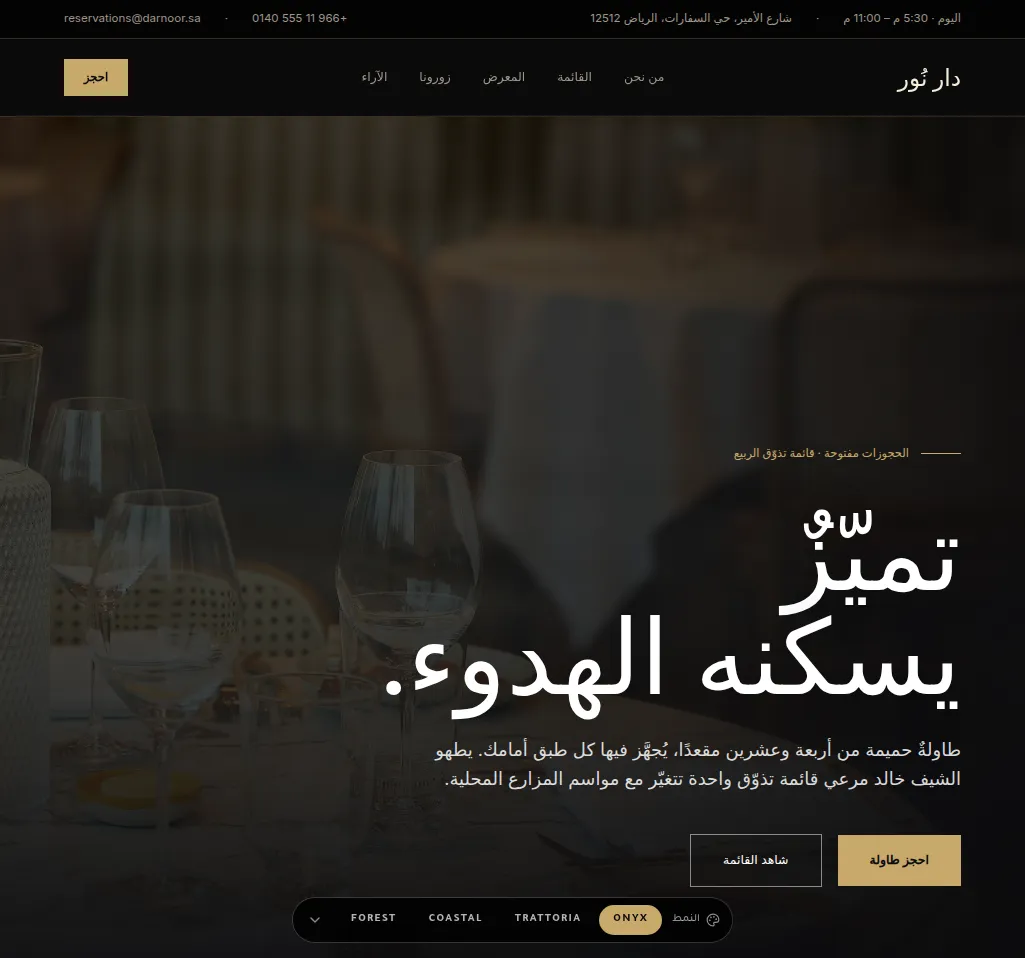
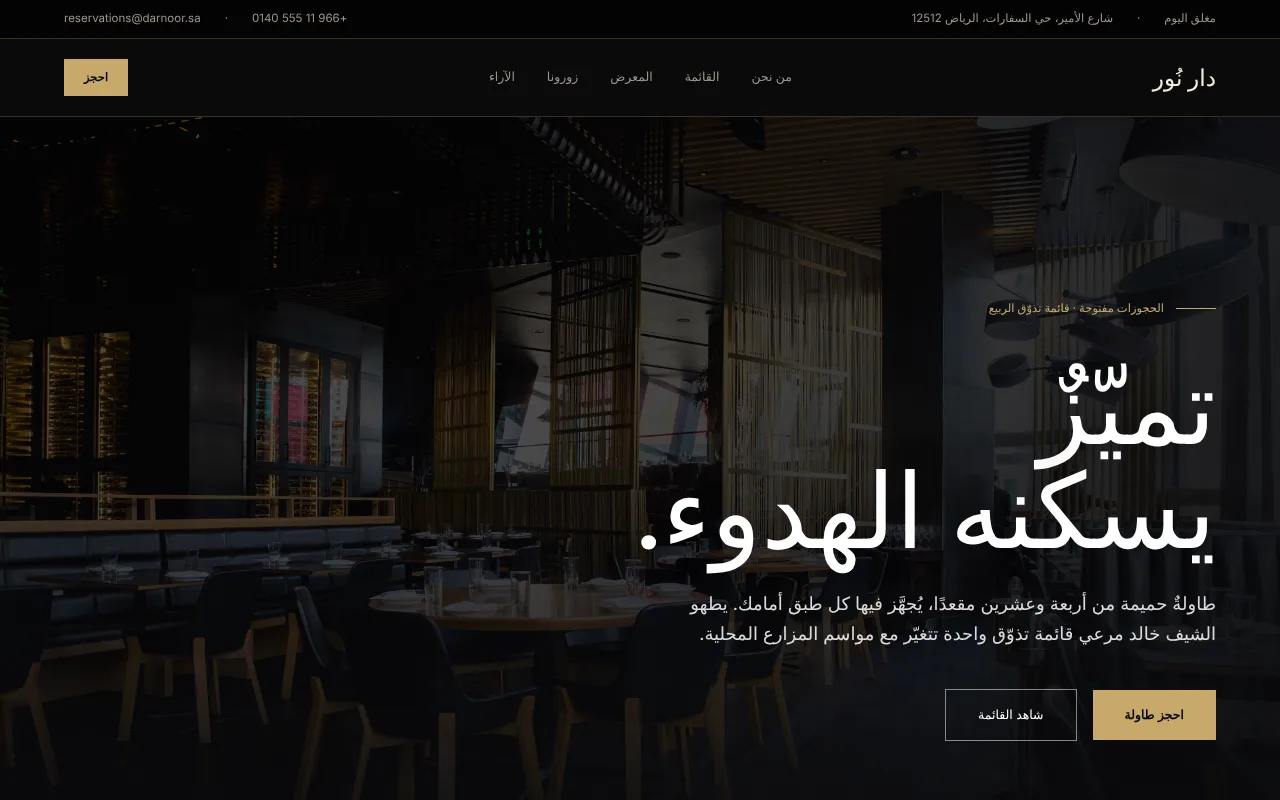
Templates: blurred "coming soon" store tile, new restaurant cover, template pictures on site cards
- /templates: the one-product store tile shows its old cover blurred under
  قريبًا, with no Shopify badge, counts, link or preview. Same on the phone.
- Restaurant demo hero is now the restaurant hall photo, and the cover
  screenshots (full, webp, thumb) are retaken from it. Real restaurant sites
  keep their own fallback photo.
- Dashboard sites: each card shows its template's picture instead of the
  site's first letter, with a solid status pill over it. The demo dashboard
  does the same.

Claude-Session: https://claude.ai/code/session_019PyfzSgTagKTkjJzAryHpH

diff --git a/components/zenya/templates/TemplatesView.tsx b/components/zenya/templates/TemplatesView.tsx
@@ -141,7 +141,7 @@ const plex = IBM_Plex_Sans_Arabic({ subsets: ["arabic"], weight: ["400", "500"],
  * as an Unsplash cover standing in for a template.
  */
 const TEMPLATES = [
-  { id: "one_product", label: "متجر",   name: "متجر بمنتج واحد",           tagline: "متجر شوبيفاي · منتج واحد", sections: 24, presets: 3, page: "/templates/one-product-store", demo: "/templates/one-product-store/demo",            build: "/build",                  shopify: true, soon: true },
+  { id: "one_product", label: "متجر",   name: "متجر بمنتج واحد",           tagline: "متجر · منتج واحد",          sections: 24, presets: 3, page: "/templates/one-product-store", demo: "/templates/one-product-store/demo",            build: "/build",                  soon: true },
   { id: "restaurant",  label: "مطعم",   name: "موقع مطعم",                 tagline: "مطعم · قائمة · حجوزات",    sections: 13, presets: 4, page: "/templates/restaurant", demo: "/templates/restaurant/demo", build: "/theme/new/restaurant" },
   { id: "atlas",       label: "تطبيق",  name: "صفحة هبوط لتطبيق",          tagline: "تطبيق · برمجيات · B2B",    sections: 12, presets: 4, page: "/templates/app-landing-page", demo: "/templates/app-landing-page/demo",      build: "/theme/new/atlas" },
   { id: "lookbook",    label: "أزياء",  name: "موقع أزياء ولوك بوك",       tagline: "أزياء · ملابس · علامة",    sections: 11, presets: 4, page: "/templates/fashion-lookbook", demo: "/templates/fashion-lookbook/demo",   build: "/theme/new/lookbook" },
@@ -342,32 +342,32 @@ export default function TemplatesView() {
               they wanted to look. */}
           <div className="zt-shot zt-hero-shot">
             {/* eslint-disable-next-line @next/next/no-img-element */}
-            <img src={themePreview(t.id)} alt={"معاينة قالب " + t.name} decoding="async" />
+            <img src={themePreview(t.id)} alt={soon ? "" : "معاينة قالب " + t.name} decoding="async" className={soon ? "zt-blur" : undefined} />
             <span className="zt-edge" aria-hidden />
-            {"shopify" in t && t.shopify ? <span className="zt-flag">شوبيفاي</span> : null}
+            {soon ? <span className="zt-veil"><span>قريبًا</span></span> : null}
           </div>
 
           <div className="zt-hero-body">
             <p className="zt-tag">{t.tagline}</p>
             <h2 className="zt-hero-name">{t.name}</h2>
-            <p className="zt-meta zt-hero-meta">
-              <span>{t.sections} قسمًا</span>
-              <span className="zt-dot" aria-hidden>·</span>
-              <span>{t.presets} أنماط جاهزة</span>
-            </p>
+            {/* The one being rebuilt says قريبًا on its cover and nothing
+                else: no counts and no preview of the old builder. */}
+            {soon ? null : (
+              <>
+                <p className="zt-meta zt-hero-meta">
+                  <span>{t.sections} قسمًا</span>
+                  <span className="zt-dot" aria-hidden>·</span>
+                  <span>{t.presets} أنماط جاهزة</span>
+                </p>
 
-            <div className="zt-hero-acts">
-              <Link href={t.demo} className="zt-hero-demo">معاينة</Link>
-              {soon ? (
-                <span className="zt-soon zt-hero-soon" title="نعمل على نسخة جديدة كليًا — قريبًا">
-                  قريبًا
-                </span>
-              ) : (
-                <SlideButton href={t.build} variant="violet" slide="هيا بنا" className="zt-hero-build">
-                  ابنِ بهذا القالب
-                </SlideButton>
-              )}
-            </div>
+                <div className="zt-hero-acts">
+                  <Link href={t.demo} className="zt-hero-demo">معاينة</Link>
+                  <SlideButton href={t.build} variant="violet" slide="هيا بنا" className="zt-hero-build">
+                    ابنِ بهذا القالب
+                  </SlideButton>
+                </div>
+              </>
+            )}
           </div>
         </article>
 
@@ -390,7 +390,7 @@ export default function TemplatesView() {
                 {/* Decorative: the label beside it already names the template,
                     so an alt here would have a screen reader say it twice. */}
                 {/* eslint-disable-next-line @next/next/no-img-element */}
-                <img src={themePreview(k.id)} alt="" loading="lazy" decoding="async" />
+                <img src={themePreview(k.id)} alt="" loading="lazy" decoding="async" className={"soon" in k && k.soon ? "zt-blur" : undefined} />
                 <span className="zt-edge" aria-hidden />
               </span>
               <span className="zt-key-label">{k.label}</span>
@@ -416,7 +416,9 @@ export default function TemplatesView() {
    * build had two links per tile to the same URL, which is sixteen tab stops
    * for eight destinations.
    */
-  const tile = (t: (typeof TEMPLATES)[number], i: number) => (
+  const tile = (t: (typeof TEMPLATES)[number], i: number) => {
+    const soon = "soon" in t && t.soon
+    return (
     <article
       key={t.id}
       className="zt-tile"
@@ -434,17 +436,15 @@ export default function TemplatesView() {
             next/image would have to be pointed at the redirect target, which is
             the thing the resolver exists to keep out of the components. */}
         {/* eslint-disable-next-line @next/next/no-img-element */}
-        <img src={themePreview(t.id)} alt={"معاينة قالب " + t.name} loading="lazy" decoding="async" />
+        <img src={themePreview(t.id)} alt={soon ? "" : "معاينة قالب " + t.name} loading="lazy" decoding="async" className={soon ? "zt-blur" : undefined} />
         {/* The screenshots are not all dark at the top: atlas, studio and
             lookbook open on near-white, and against a white card they lose
             their own top edge. A hairline drawn OVER the image gives every
             cover the same definite boundary. It has to be a pseudo-element:
             an inset shadow on the box sits under the img that fills it. */}
         <span className="zt-edge" aria-hidden />
-        {/* The "in" guard, not a bare t.shopify: `as const` makes TEMPLATES a
-            union in which only the one Shopify entry carries the key at all.
-            Same idiom the sibling uses for its optional badge. */}
-        {"shopify" in t && t.shopify ? <span className="zt-flag">شوبيفاي</span> : null}
+        {/* The one being rebuilt: its old cover blurred under one word. */}
+        {soon ? <span className="zt-veil"><span>قريبًا</span></span> : null}
       </div>
 
       <div className="zt-body">
@@ -453,12 +453,18 @@ export default function TemplatesView() {
             leading it. It sits NEXT TO the name and not at the far end of the
             row: pushed to the edge by space-between it was 200px of empty
             plate away from the word it belongs to and read as a stray glyph. */}
-        <h3 className="zt-name">
-          <Link href={t.page} className="zt-name-link">{t.name}</Link>
-          <ArrowLeft className="zt-arrow" size={16} strokeWidth={1.75} aria-hidden />
-        </h3>
+        {soon ? (
+          /* Not a link: the page behind it describes the old builder. */
+          <h3 className="zt-name">{t.name}</h3>
+        ) : (
+          <h3 className="zt-name">
+            <Link href={t.page} className="zt-name-link">{t.name}</Link>
+            <ArrowLeft className="zt-arrow" size={16} strokeWidth={1.75} aria-hidden />
+          </h3>
+        )}
         {/* Real counts on the start, the build control on the end. One row, so
             the action costs the plate a line of height rather than a band. */}
+        {soon ? null : (
         <div className="zt-foot">
           <p className="zt-meta">
             <span>{t.sections} قسمًا</span>
@@ -472,28 +478,22 @@ export default function TemplatesView() {
               button sits UNDER that overlay and every press opens the preview
               instead. .zt-act carries position/z-index for exactly that. */}
           <span className="zt-act">
-            {"soon" in t && t.soon ? (
-              /* What the live catalogue shows the public for this one. Not a
-                 button: there is nothing behind it to press. */
-              <span className="zt-soon" title="نعمل على نسخة جديدة كليًا — قريبًا">
-                قريبًا
-              </span>
-            ) : (
-              /* SlideButton takes no aria-label — it builds the accessible
+            {/* SlideButton takes no aria-label — it builds the accessible
                  name from children, into its own visually-hidden .sb-a11y
                  copy. Left as bare "ابنِ" that is eight links with identical
                  names in one list, so the template rides along hidden: the
                  visible face still reads ابنِ, the name reads ابنِ بقالب مطعم.
-                 Same shape as the live catalogue's aria-label. */
-              <SlideButton href={t.build} variant="violet" slide="هيا بنا" className="zt-build">
-                ابنِ<span className="sr-only">{" بقالب " + t.label}</span>
-              </SlideButton>
-            )}
+                 Same shape as the live catalogue's aria-label. */}
+            <SlideButton href={t.build} variant="violet" slide="هيا بنا" className="zt-build">
+              ابنِ<span className="sr-only">{" بقالب " + t.label}</span>
+            </SlideButton>
           </span>
         </div>
+        )}
       </div>
     </article>
-  )
+    )
+  }
 
   return (
     <main className={"zt-root " + tajawal.className} dir="rtl" ref={rootRef}>
@@ -1133,13 +1133,21 @@ const CSS = `
 @media (prefers-reduced-motion: reduce) {
   .zt-shot img, .zt-tile:hover .zt-shot img { transition: none; transform: none; }
 }
-/* The one flag on the catalogue, on the one template that carries the flag in
-   lib/templates-en.ts. Glass over the shot rather than a filled chip, so it does
-   not add a colour to a page whose colour budget belongs to the covers. */
-.zt-flag {
-  position: absolute; inset-block-start: 0.75rem; inset-inline-start: 0.75rem;
-  border-radius: 999px; padding: 0.3125rem 0.6875rem;
-  font-size: 14.5px; font-weight: 700; line-height: 1.4; letter-spacing: 0;
+/* The one being rebuilt. Its old cover is blurred past reading, scaled so the
+   blur's soft edge stays outside the frame, under one glass word. */
+.zt-shot img.zt-blur, .zt-key-shot img.zt-blur {
+  filter: blur(14px) saturate(0.85);
+  transform: scale(1.15);
+}
+.zt-tile:hover .zt-shot img.zt-blur { transform: scale(1.15); }
+.zt-veil {
+  position: absolute; inset: 0;
+  display: grid; place-items: center;
+  pointer-events: none;
+}
+.zt-veil > span {
+  border-radius: 999px; padding: 0.5rem 1.25rem;
+  font-size: 20px; font-weight: 900; line-height: 1.4;
   color: #fafafa;
   background: rgba(32, 32, 38, 0.72);
   -webkit-backdrop-filter: blur(18px) saturate(180%);
@@ -1282,17 +1290,6 @@ const CSS = `
   font-size: 14.5px;
 }
 .zt-tile[data-lead] .zt-build.sb { font-size: 14.5px; padding: 0.25rem 1rem; }
-
-/* The one that has no builder to open. Quiet, not violet: nothing to press. */
-.zt-soon {
-  display: inline-flex; align-items: center;
-  border-radius: var(--r-control);
-  padding: 0.4375rem 0.75rem;
-  font-size: 14.5px; font-weight: 700; line-height: 1.35;
-  color: var(--stone);
-  background: rgba(17, 17, 17, 0.04);
-  box-shadow: 0 0 0 1px rgba(17, 17, 17, 0.07);
-}
 
 /* ---- the floor, on its own ground ---------------------------------------
    TWO COLUMNS, UNEVEN, AND A BAND OF PAPER UNDER IT. The margin-bottom is not
@@ -1488,10 +1485,6 @@ const CSS = `
 }
 .zt-hero-demo:focus-visible { outline: 2px solid var(--violet); outline-offset: 3px; }
 .zt-hero-build { width: 100%; }
-.zt-hero-soon {
-  display: inline-flex; align-items: center; justify-content: center;
-  min-height: 44px; border-radius: var(--r-control);
-}
 
 .zt-keys {
   display: grid; grid-template-columns: repeat(4, minmax(0, 1fr));

diff --git a/components/dashboard/screens/sites.tsx b/components/dashboard/screens/sites.tsx
@@ -13,6 +13,8 @@ export type SiteCardData = {
   host: string | null
   live: boolean
   updated: string
+  /** The template's cover picture. Without one the card shows the initial. */
+  cover?: string
   edit?: Action
   preview?: Action
   primary: { label: string; action?: Action }
@@ -55,14 +57,20 @@ export function SitesScreen({
       <div className="grid gap-4 sm:grid-cols-2 xl:grid-cols-3">
         {rows.map((s) => (
           <article key={s.id} className="flex flex-col overflow-hidden rounded-2xl zy-card">
-            {/* Stands in for the site's own screenshot, carrying its initial:
-                a flat grey field with a lone glyph reads as a failed image. */}
-            <div className="relative flex aspect-[16/10] items-center justify-center bg-[#f4f4f6] sm:aspect-[16/9]">
-              <span className="select-none text-[56px] font-black leading-none text-[rgba(17,17,17,0.17)]">
-                {s.name.trim().charAt(0)}
-              </span>
+            {/* The template's cover picture. Without one, the site's initial
+                stands in: a flat grey field with a lone glyph. */}
+            <div className="relative flex aspect-[16/10] items-center justify-center overflow-hidden bg-[#f4f4f6] sm:aspect-[16/9]">
+              {s.cover ? (
+                // eslint-disable-next-line @next/next/no-img-element
+                <img src={s.cover} alt="" loading="lazy" decoding="async" className="absolute inset-0 h-full w-full object-cover object-top" />
+              ) : (
+                <span className="select-none text-[56px] font-black leading-none text-[rgba(17,17,17,0.17)]">
+                  {s.name.trim().charAt(0)}
+                </span>
+              )}
               <span className="absolute top-3" style={{ insetInlineStart: '0.75rem' }}>
-                <span className="zy-pill" data-tone={s.live ? 'ok' : 'warn'}>{s.live ? 'مباشر' : 'مسوّدة'}</span>
+                {/* Solid white over a picture, so the state reads on any cover. */}
+                <span className="zy-pill" data-tone={s.live ? 'ok' : 'warn'} style={s.cover ? { background: '#fff', boxShadow: '0 1px 3px rgba(0,0,0,0.18)' } : undefined}>{s.live ? 'مباشر' : 'مسوّدة'}</span>
               </span>
             </div>
             <div className="flex min-w-0 flex-1 flex-col p-4">

diff --git a/app/(app)/dashboard/sites/page.tsx b/app/(app)/dashboard/sites/page.tsx
@@ -9,12 +9,17 @@ import { useNotify } from '@/components/ui/Notify'
 import { publicSiteHost, publicSiteUrl } from '@/lib/portal-urls'
 import { SitesScreen, type SiteCardData, type SiteFilter } from '@/components/dashboard/screens/sites'
 import { relTime } from '@/components/dashboard/screens/kit'
+import { themePreview } from '@/lib/theme-previews'
 import {
   HOSTABLE_TYPES, SHOPIFY_TYPES, businessTypeOf, editUrlFor, templateLabel, type ThemeRow,
 } from '@/components/dashboard/site-kinds'
 
 // First 30 days: hosting is free on every plan (kept in sync with the publish API).
 const TRIAL_DAYS = 30
+
+// Templates with a small cover in public/theme-previews/thumb. A card is a few
+// hundred pixels wide, so it takes the thumb rather than the full screenshot.
+const THUMBS = new Set(['restaurant', 'one_product', 'atlas', 'services', 'collective', 'studio', 'lookbook', 'wellness'])
 
 type Profile = {
   plan: string | null
@@ -84,6 +89,7 @@ export default function SitesPage() {
       host: live ? publicSiteHost(t.slug!) : null,
       live,
       updated: relTime(t.updated_at || t.created_at),
+      cover: THUMBS.has(bt) ? `/theme-previews/thumb/${bt}.webp` : themePreview(bt),
       edit: { href: editUrlFor(t.id, bt) },
       preview: { href: live ? publicSiteUrl(t.slug!) : `/preview/${t.id}`, external: true },
       primary,

diff --git a/app/(site)/templates/page.tsx b/app/(site)/templates/page.tsx
@@ -23,11 +23,9 @@
  *     same as the pricing cards. The key recipe stays scoped to CTAs, because
  *     the style doc says plainly that content never does this.
  *
- *   - SHOPIFY IS A BADGE ON ONE TILE, NOT A SECTION. Exactly one template
- *     carries shopify: true in lib/templates-en.ts and on the live catalogue, and
- *     the live page renders that flag as شوبيفاي / مباشر. Giving the export its
- *     own block would overweight one of eight and re-assert the "Shopify theme
- *     generator" reading that Zenya is not. A badge is proportionate.
+ *   - THE ONE-PRODUCT STORE IS قريبًا AND NOTHING ELSE. It is being rebuilt,
+ *     so its tile shows the old cover blurred under one word, with no counts,
+ *     no link and no Shopify badge (the owner's call, 2026-10-12).
  *
  * NOTHING HERE IS INVENTED. Names, short labels and audiences are read from
  * lib/template-pages.tsx; section and preset counts from lib/templates-en.ts; the

diff --git a/app/demo/dashboard/views.tsx b/app/demo/dashboard/views.tsx
@@ -54,6 +54,11 @@ export function HomeView({ go }: { go: (v: string) => void }) {
   )
 }
 
+/* The fixture sites carry a label, not a template id. */
+const KIND_COVER: Record<string, string> = {
+  'مطعم': 'restaurant', 'تطبيق': 'atlas', 'عافية': 'wellness', 'أزياء': 'lookbook', 'شوبيفاي': 'collective',
+}
+
 export function SitesView({ filter, setFilter }: { filter: string; setFilter: (f: string) => void }) {
   return (
     <SitesScreen
@@ -61,6 +66,7 @@ export function SitesView({ filter, setFilter }: { filter: string; setFilter: (f
       setFilter={setFilter}
       sites={SITES.map((s) => ({
         id: s.id, name: s.name, kind: s.kind, host: s.host, live: s.live, updated: s.updated,
+        cover: KIND_COVER[s.kind] ? `/theme-previews/thumb/${KIND_COVER[s.kind]}.webp` : undefined,
         primary: { label: s.live ? 'أضف نطاقًا' : 'انشر' },
       }))}
     />

diff --git a/utils/restaurant/mock-content.ts b/utils/restaurant/mock-content.ts
@@ -16,7 +16,7 @@ export const RESTAURANT_MOCK_CONTENT: RestaurantContent = {
     primary_cta: 'احجز طاولة',
     secondary_cta: 'شاهد القائمة',
     image:
-      'https://images.unsplash.com/photo-1669310097451-826ff0e66b9a?auto=format&fit=crop&w=2000&q=80'
+      'https://images.unsplash.com/photo-1517248135467-4c7edcad34c4?auto=format&fit=crop&w=2000&q=80'
   },
   story: {
     eyebrow: 'قصتنا',
